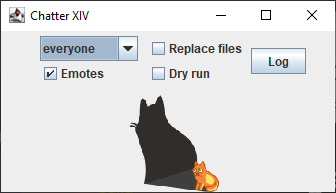
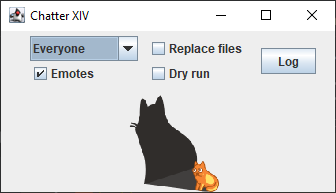
Updated documentation and fixed dropdown.
The documentation for users is mostly done, it just needs editing.

The group selection dropdown was showing the shortname instead of the label.
Fixed it to show the label. Updated the screenshots to match.

diff --git a/src/main/kotlin/pub/carkeys/chatter14/window/DropFrame.kt b/src/main/kotlin/pub/carkeys/chatter14/window/DropFrame.kt
@@ -48,7 +48,7 @@ class DropFrame(
     private val serialVersionUID = 1L
     private var logWindow: LogFrame? = null
 
-    private val groupLabels = config.groups.keys.toList().sorted().toTypedArray()
+    private val groupLabels = config.groups.values.map { it.label }.toList().sorted().toTypedArray()
 
     private val randomImages = listOf(
         loadImage("/images/cat-shadow-ball-icon.png"),

diff --git a/README.md b/README.md
@@ -48,11 +48,12 @@ windowed mode.
 
 <img src="src/main/docs/main.png" alt="Screen shot of main window">
 
-To convert one or more ACT log files drag them to the Chatter14 window. They will be
-converted using the current options in the window. The generated files will be .txt files
-in the same directory as the logs, with the a name in the form
-{original_name}-{group_short_name}.txt. It will include all of the lines from the log that
-match the group definition and optionally the emotes.
+To convert one or more ACT log files drag them to the Chatter14 window. The background
+image will change to show that they can be dropped. They will be converted using the
+current options in the window. The generated files will be .txt files in the same
+directory as the logs, with the a name in the form {original_name}-{group_short_name}.txt.
+It will include all of the lines from the log that match the group definition and
+optionally the emotes.
 
 #### Options
 
@@ -77,10 +78,146 @@ testing but it also helps to show progress.
 
 ### <a name="command">Command Line</a>
 
+The command line mode processes the files given on the command line just as if they were
+dropped onto the window. The options are the same as the window mode with two additions.
+The first is the `-c/--config` option which will log the parsed configuration file. This
+makes it easier to see what was actually read from the configuration file. The second is
+the `-w/--window` option (the default) which tells the program to run in windows mode. To
+run as a command line instead the `-W/--no-window` option is used.
+
+Here is what is displayed by the `-h` help option. Note that it also displays the groups
+that were read from the configuration file.
+
+```
+Usage: chatter14 [OPTIONS] [FILES]...
+
+  Extracts FFXIV chat and emote lines from ACT logs.
+
+  This application takes one or more ACT log files and extracts various chat
+  and optionally emote lines from the log. The lines can be further filtered
+  by a list of user names.
+
+  This command can be run in either command line or windowed modes. Command
+  line mode is useful for experience users or inclusion in scripts. Windowed
+  mode allows for drag-and-drop actions to convert files. The default is to
+  use windowed mode.
+
+Options:
+  --version                        Show the version and exit
+  -c, --config                     logs the config
+  -d, --dryrun / -P, --process     process without creating output files
+  -r, --replace / -S, --no-replace
+                                   replace existing text files
+  -e, --emotes / -E, --no-emotes   include emotes in the output
+  -w, --window / -W, --no-window   display drag-and-drop target window
+  -g, --group [everyone|mains|tifa]
+                                   group (list of users) to filter for
+  -h, --help                       Show this message and exit
+
+Arguments:
+  FILES  The log files to process
+
+Configured groups:
+
+  Everyone (everyone)
+
+  Mains (mains)
+    Bobcat Goldthwait
+    Cecil Harvey
+    Cloud Strife
+    Tifa Lockhart
+
+  Tifa and Cloud (tifa)
+    Cloud Strife
+    Tifa Lockhart
+```
+
 ### <a name="configuration">Configuration File</a>
 
 There is a special group that is always present
 called `Everyone` that selects all conversations from every person in the log. Thi
+
+The configuration file is written in a format called [TOML](https://toml.io/en/) but if
+you just copy the sample and make the appropriate adjustments you don't really need to
+know the details.
+
+The file starts with the default option selections and then is followed by the renames
+and then the group definitions. The options are the same as the command line and window
+options with two additions.
+
+#### Options
+
+| Option Name     | Description                                                                                                                                                           |
+|-----------------|-----------------------------------------------------------------------------------------------------------------------------------------------------------------------|
+| dryRun          | If true then all processing occurs except the output file is not written. Default is `false`.                                                                         |
+| replaceIfExists | If true then any existing target TXT files will be replaced, otherwise no output file is writter. Default is `false`.                                                 |
+| includeEmotes   | If true then emote lines generated byt the people in the group are included in the output. Default is `true`.                                                         |
+| performRename   | If true then the person renames are applied to any line that is written ot the output. This can make lines shorter for those people you know well. Default is `true`. |
+| dataCenter      | The name of your data center. This must be one of the valid data centers existing at the time this application was built. Default to `Crystal`.                       |
+| server          | The name of your server. This must be one of the valid servers in the given data center exsting at the time this application was built. Default to `Zalera`.          |
+
+#### Renames
+
+The next section defines the character renames. This is just a list of match the name on
+the left and replace it with the name of the right. The names do not have to have any
+relation to each other but don't have one name renamed to another that is in the list or
+the application may fail. The name must be surrounded by quotes.
+
+#### Groups
+
+The remaining sections define the groups. A group is a list of character full names that
+will be included in the output generated when that group is selected. You should probably
+include your own name in each group but that is not required.
+
+There is always a group called Everyone (everyone) that when selected includes all
+characters from all conversations. This can be a large amount of output and really should
+probably only be used when you're trying to find and conversation with someone new that
+you don't have the name of.
+
+The label of the group is used in the window drop-down to select the group.
+
+The shortname is what is used to select the group from the command line.
+
+The paritcipants is a list of all of the characters to include in the group. Each entry
+is the full name of the character not including the world. The current version of
+`chatter14` does not support characters with the same name from different worlds.
+
+#### Sample configuration
+
+Here is a sample confguration that demonstrates every option.
+
+```toml
+dryRun = false
+replaceIfExists = false
+includeEmotes = true
+performRename = true
+dataCenter = "Crystal"
+server = "Zalera"
+
+[renames]
+"Bobcat Goldthwait" = "Bobby"
+"Tifa Lockhart" = "Tifa"
+"Cecil Harvey" = "Cecil"
+"Cloud Strife" = "Cloudy"
+
+[[group]]
+label = "Tifa and Cloud"
+shortname = "tifa"
+participants = [
+    "Tifa Lockhart",
+    "Cloud Strife",
+]
+
+[[group]]
+label = "Mains"
+shortname = "mains"
+participants = [
+    "Bobcat Goldthwait",
+    "Tifa Lockhart",
+    "Cecil Harvey",
+    "Cloud Strife",
+]
+```
 
 ## <a name="installation">Installation</a>
 
@@ -97,6 +234,8 @@ Extract the tar file into an appropriate place and add the `chatter14` script to
 PATH.
 
 ## <a name="developing">Developing</a>
+
+TBD.
 
 ### Build Windows icon
 
